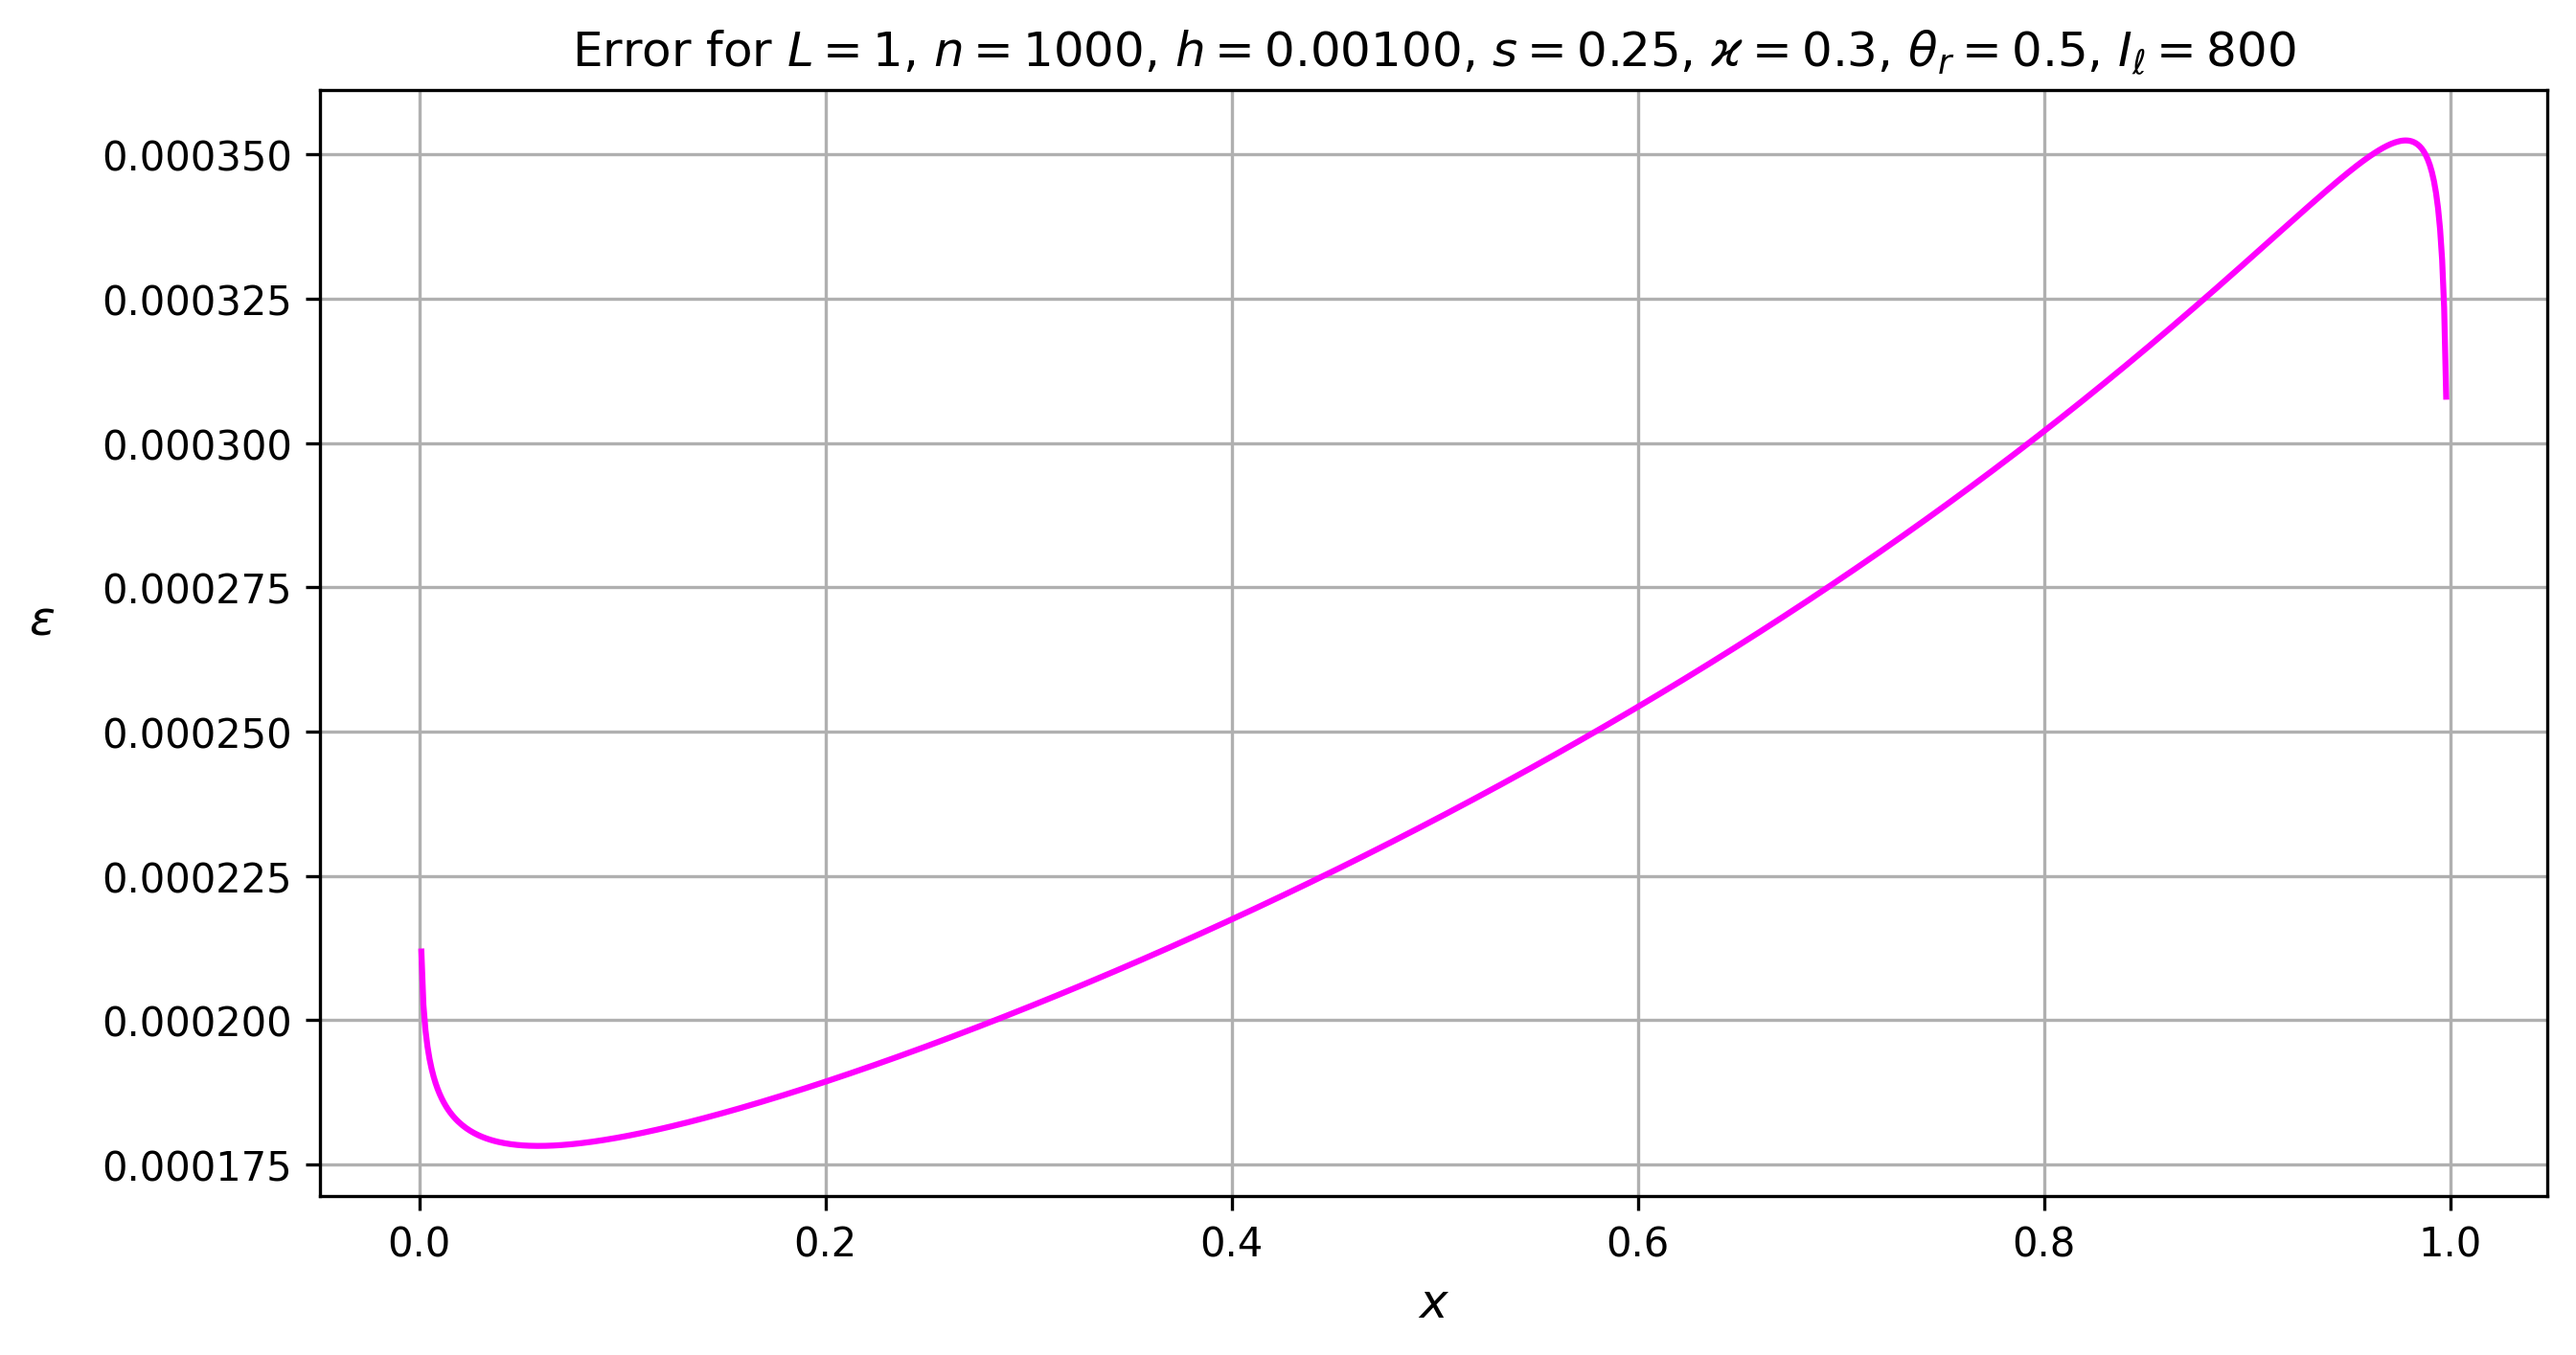
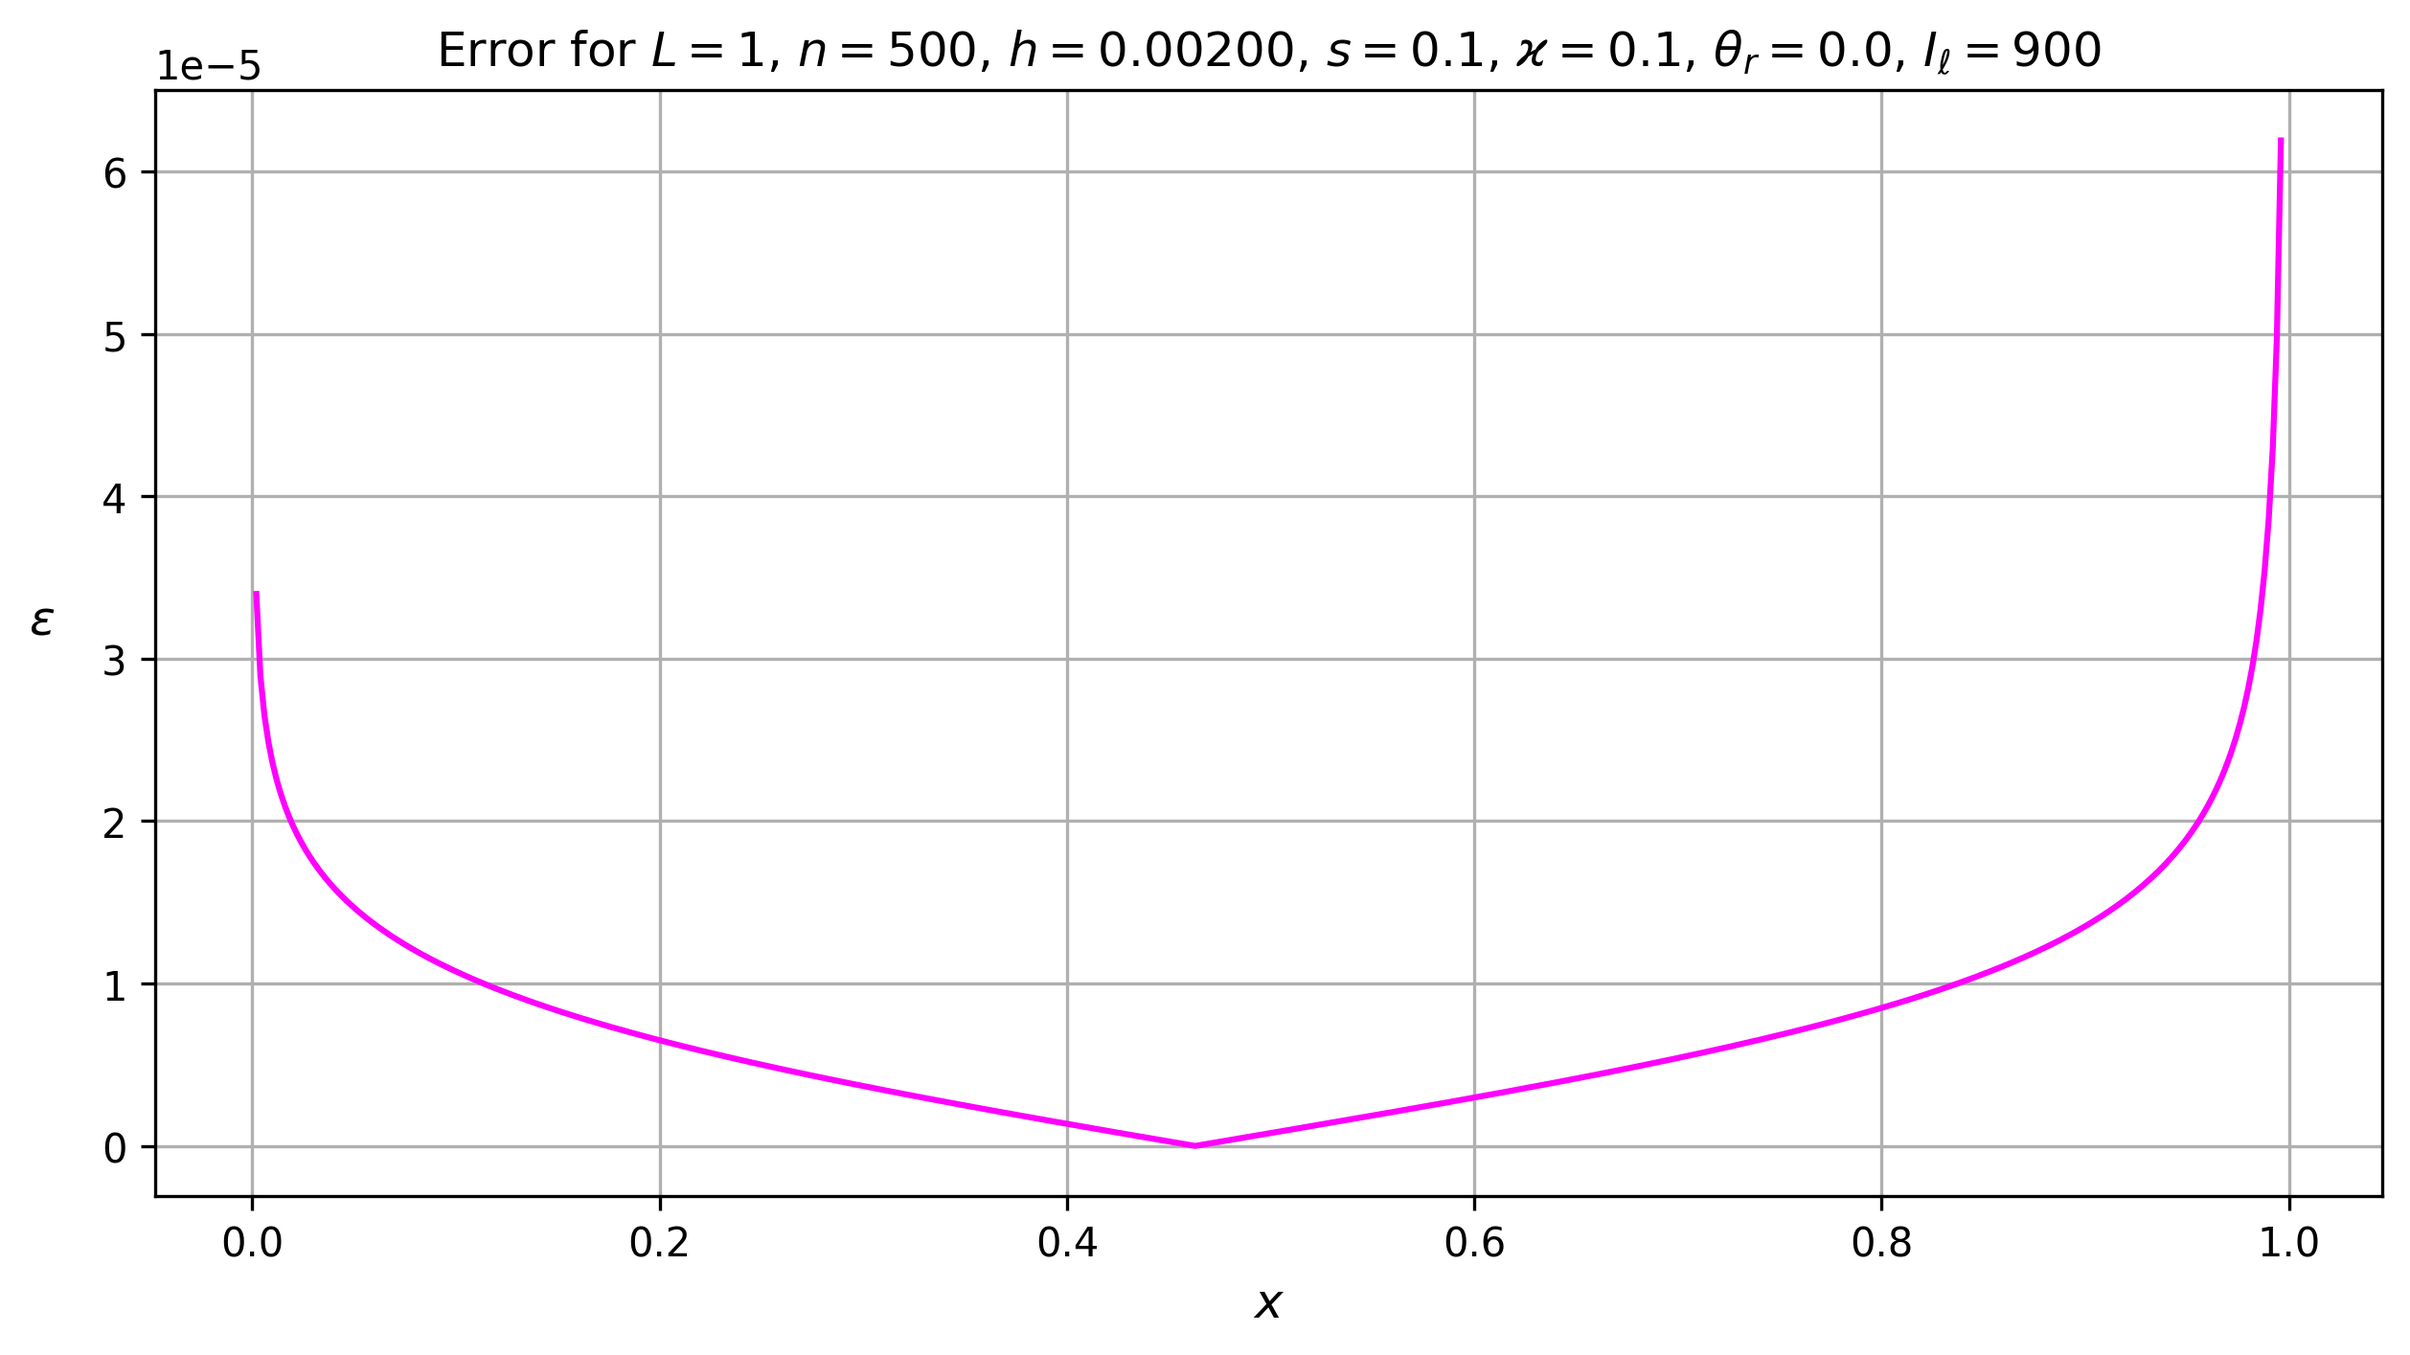
changes in intEq

diff --git a/intEq.py b/intEq.py
@@ -2,29 +2,32 @@ import numpy as np
 from scipy.integrate import quad
 from scipy.linalg import toeplitz
 from matplotlib import pyplot as plt
-from typing import Callable, Dict, Optional
+from typing import Callable, Dict, Optional, Tuple
 import os
+
 
 from GEI import E3
 
 class IntEq:
     """
-    class that implements the solution to the integral equation of radiative transfer
+        Class for solving the integral equation of radiative transfer.
 
-    Parameters
-    ----------
-    L: float
-        layer thickness
-    n: int
-        number of partition segments of [0, L]
-    s: float
-        dissipation coefficient
-    kappa: float
-        absorption coefficient
-    theta_r: float
-        refractive index of the bottom part of the layer
-    I_l: float
-        incident radiation intensity
+        This class implements a numerical solution for the radiative transfer equation in a layered medium.
+
+        Parameters
+        ----------
+        L : float
+            Thickness of the layer.
+        n : int
+            Number of partition segments in the interval [0, L].
+        s : float
+            Dissipation coefficient, representing scattering and absorption losses.
+        kappa : float
+            Absorption coefficient, quantifying the medium's capacity to absorb radiation.
+        theta_r : float
+            Refractive index of the bottom boundary of the layer.
+        I_l : float
+            Intensity of incident radiation at the top boundary.
     """
 
     def __init__(self, d:Optional[Dict[str, float]], func:Callable[[np.float64], np.float64])->None:
@@ -56,80 +59,61 @@ class IntEq:
             res = j*self.h - self.h/2
         
         return res
-
-    def buildMatrixA(self)->np.ndarray:
+    
+    def buildMatrices(self)->Tuple[np.ndarray, np.ndarray, np.ndarray]:
         np.fill_diagonal(self.A, self.h)
         self.A[0, 0] = self.h/2
         self.A[-1, -1] = self.A[0, 0]
 
-        return self.A
-    
-    def buildMatrixD(self)->np.ndarray:
+
         vals = np.array([self.x(i) for i in np.arange(self.n+1)])
         myEnVals = np.array([E3(self.alpha*(self.L - el)) for el in vals])
         diffVals = np.diff(myEnVals)
-
         for i in range(self.n):
             for j in range(self.n):
                 self.D[i, j] = diffVals[i]*diffVals[j]
 
-        return np.power(self.alpha, -2)*self.D
-    
-    def buildMatrixE(self)->np.ndarray:
-        c:np.float64   = np.power(self.alpha, -2)
-        a:np.float64   = self.alpha*self.h
-        b:np.float64   = self.h*np.power(self.alpha, -1)
-        ind:np.ndarray = np.arange(1, self.n)
 
+        c = np.power(self.alpha, -2)
+        a = self.alpha*self.h
+        b = self.h*np.power(self.alpha, -1)
+        ind = np.arange(1, self.n)
         arr = np.zeros(self.n)
         for i in ind[1:]:
             arr[i-1] = E3(a*(i)) + E3(a*(i-2)) - 2*E3(a*(i-1))
         arr *= c
         arr[0] = 2*b + 2*c*E3(a) - c
-
         self.E = toeplitz(arr)
-
         arr = np.zeros(self.n)
         for i in ind[1:]:
             arr[i-1] = -E3(a*(i-1)) + E3(a*(i-2)) + E3(a*(i-0.5)) - E3(a*(i-1.5))
         self.E[:, 0] = c*arr
-
         arr = np.zeros(self.n)
         for i in ind[:-1]:
             arr[i-1] = -E3(self.alpha*(self.L + self.h*(0.5-i))) + E3(self.alpha*(self.L + self.h*(1.5-i))) + \
                         E3(self.alpha*(self.L-i*self.h)) - E3(self.alpha*(self.L-self.h*(i-1)))
         self.E[:, -1] = c*arr
-
         self.E[0, 0] = b + 2*c*E3(a/2) - c
         self.E[-1, -1] = self.E[0, 0]
-        
-        return self.E
+
+        return self.A, np.power(self.alpha, -2)*self.D, self.E
     
-    def buildVectorE(self)->np.ndarray:
+    def buildVectors(self)->Tuple[np.ndarray, np.ndarray, np.ndarray]:
         for i in range(1, self.n+1):
             self.e[i-1] = E3(self.alpha*self.x(i)) - E3(self.alpha*self.x(i-1))
 
-        return -np.power(self.alpha, -1)*self.e
-    
-    def buildVectorB(self)->np.ndarray:
         for i in range(1, self.n+1):
             self.b[i-1] = E3(self.alpha*(self.L - self.x(i))) - E3(self.alpha*(self.L - self.x(i-1)))
 
-        return np.power(self.alpha, -1)*self.b
-    
-    def buildVectorF(self)->np.ndarray:
         for i in range(1, self.n+1):
             self.f[i-1] = quad(self.func, self.x(i-1), self.x(i))[0]
 
-        return self.f
+        return -np.power(self.alpha, -1)*self.e, np.power(self.alpha, -1)*self.b, self.f
+
     
     def solve(self)->np.ndarray:
-        self.D = self.buildMatrixD()
-        self.A = self.buildMatrixA()
-        self.E = self.buildMatrixE()
-        self.b = self.buildVectorB()
-        self.e = self.buildVectorE()
-        self.f = self.buildVectorF()
+        self.A, self.D, self.E = self.buildMatrices()
+        self.e, self.b, self.f = self.buildVectors()
 
         B = self.A - self.s*self.theta_r*self.D - self.s/2*self.E
         k = self.I_l/2*self.e + self.I_l*self.theta_r*E3(self.alpha*self.L)*self.b + self.f

diff --git a/GEI.py b/GEI.py
@@ -7,19 +7,19 @@ import os
 def En(n:np.int64, x:np.float64)->np.float64:
 
     """
-    generalized exponential integral (GEI) for integer n >= 0 and real x >= 0
+        Computes the Generalized Exponential Integral (GEI) for integer order n ≥ 0 and real argument x ≥ 0.
 
-    Parameters
-    ----------
-    n: int
-        order of GEI
-    x: float
-        argument of GEI
-    
-    Returns
-    ----------
-    scalar
-        value of GEI
+        Parameters
+        ----------
+        n : int
+            Order of the GEI (must be a non-negative integer).
+        x : float
+            Argument of the GEI (must be a non-negative real number).
+
+        Returns
+        -------
+        float
+            The computed value of the Generalized Exponential Integral.
     """
 
     def psi(n:np.int64)->np.float64:

diff --git a/solver.py b/solver.py
@@ -4,12 +4,13 @@ from GEI import E2, E3
 if __name__ == "__main__":
     data = dict(
         L = 1,
-        n = 1000,
-        s = 0.25,
-        kappa = 0.3,
-        theta_r = 0.5,
-        I_l = 800
+        n = 500,
+        s = 0.1,
+        kappa = 0.1,
+        theta_r = 0.0,
+        I_l = 900
     )
+    
     alpha = data['s'] + data['kappa']
     func = lambda x: 1 - data['I_l']/2*E2(alpha*x) - data['I_l']*data['theta_r']*E3(alpha*data['L'])*E2(alpha*(data['L']-x)) -\
                      data['s']*data['theta_r']/alpha*E2(alpha*(data['L']-x))*(E3(0)-E3(alpha*data['L'])) - data['s']/(2*alpha)*(2*E2(0) -\
